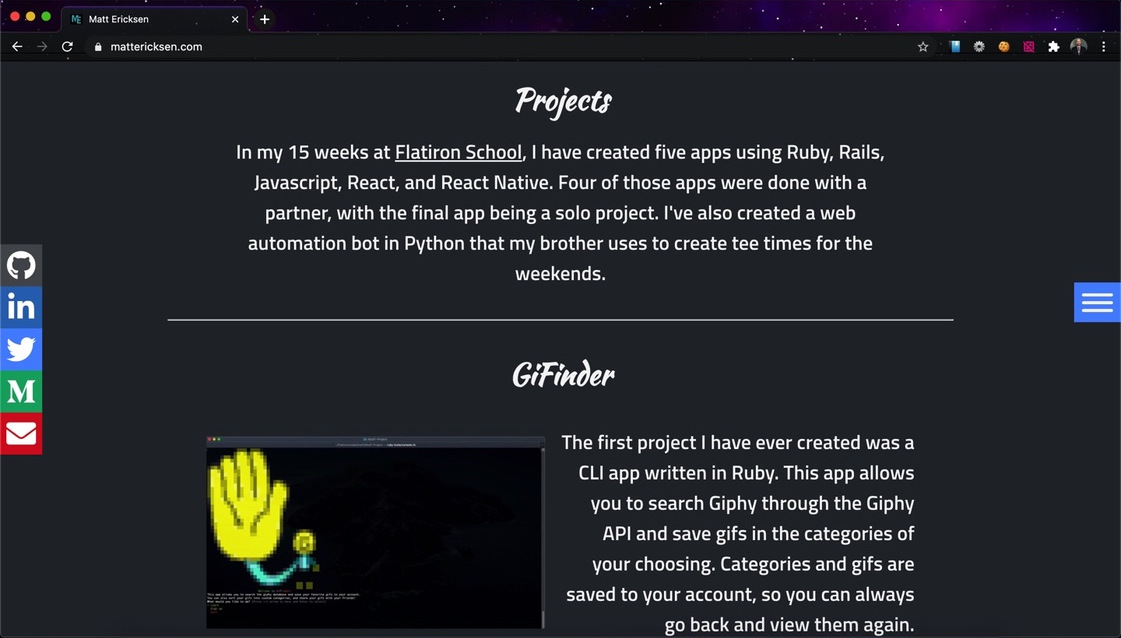
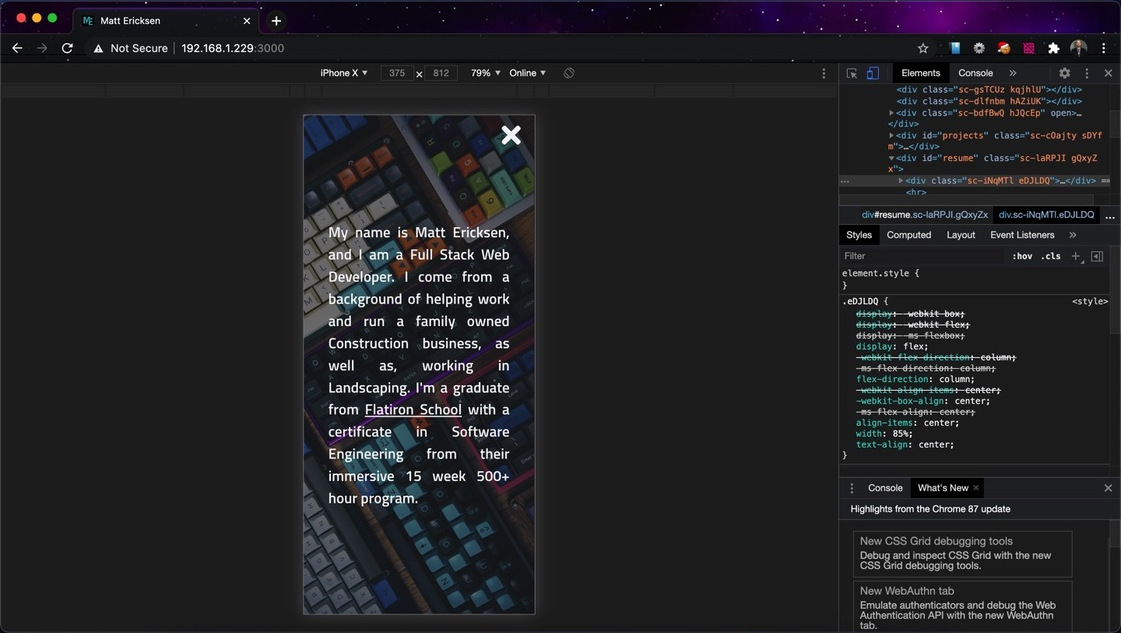
removed /about and just added an overlay slide in

diff --git a/src/App/components/IntroImage.js b/src/App/components/IntroImage.js
@@ -1,7 +1,6 @@
 import React, { useState, useEffect } from "react";
 import styled from "styled-components";
-import { FaMinus, FaChevronDown, FaChevronRight } from "react-icons/fa";
-import { useHistory } from "react-router-dom";
+import { FaMinus, FaChevronDown } from "react-icons/fa";
 import { throttle } from "lodash";
 
 import TextCanvas from "../components/TextCanvas";
@@ -10,10 +9,15 @@ import prism from "../assets/images/prism.png";
 export default function IntroImage(props) {
   const [hideContent, setHideContent] = useState(false);
   const [mobile, setMobile] = useState(window.innerWidth < 769);
-  const history = useHistory();
 
   window.addEventListener("resize", () => {
-    setMobile(window.innerWidth < 769);
+    if (window.innerWidth < 769) {
+      setMobile(true);
+      props.setStopAnimation(true);
+    } else {
+      setMobile(false);
+      props.setStopAnimation(false);
+    }
   });
 
   useEffect(() => {
@@ -26,14 +30,6 @@ export default function IntroImage(props) {
 
   function scrollToWork() {
     document.getElementById("projects").scrollIntoView();
-  }
-
-  function goToAbout() {
-    props.setStopAnimation(true);
-    setTimeout(() => {
-      window.scrollTo(0, 0);
-    }, 2000);
-    history.push("/about");
   }
 
   function checkHideContent() {
@@ -75,10 +71,6 @@ export default function IntroImage(props) {
                 />
               )}
             </Info>
-            <AboutMeButton onClick={goToAbout}>
-              About Me
-              <FaChevronRight size={35} />
-            </AboutMeButton>
             <WorkButton onClick={scrollToWork}>
               <FaChevronDown size={35} />
               My Work
@@ -168,7 +160,8 @@ const WorkButton = styled.div`
   display: flex;
   position: absolute;
   bottom: 10px;
-  left: 5px;
+  left: 50%;
+  transform: translateX(-50%);
   align-items: center;
   font-size: 2rem;
   cursor: pointer;
@@ -190,36 +183,5 @@ const WorkButton = styled.div`
   }
   @media (min-width: 769px) {
     bottom: 20px;
-    left: 50%;
-    transform: translateX(-50%);
-  }
-`;
-
-const AboutMeButton = styled.div`
-  display: flex;
-  position: absolute;
-  bottom: 10px;
-  right: 5px;
-  align-items: center;
-  font-size: 2rem;
-  cursor: pointer;
-  :hover {
-    color: #00adb5;
-    transition: 0.4s ease;
-  }
-  & svg {
-    animation: slide 0.6s infinite alternate ease;
-  }
-  @keyframes slide {
-    from {
-      transform: translateX(0px);
-    }
-    to {
-      transform: translateX(10px);
-    }
-  }
-  @media (min-width: 769px) {
-    bottom: 20px;
-    right: 20px;
   }
 `;

diff --git a/src/App/components/AboutMe.js b/src/App/components/AboutMe.js
@@ -1,0 +1,71 @@
+import React from "react";
+import styled from "styled-components";
+import { FaTimes } from "react-icons/fa";
+
+import keebs from "../assets/images/keebs.png";
+import keebs90 from "../assets/images/keebs90.png";
+
+export default function AboutMe(props) {
+  return (
+    <Container imgMobile={keebs90} imgPC={keebs} open={props.aboutMeOpen}>
+      <FaTimes size={45} onClick={() => props.setAboutMeOpen(false)} />
+      <p>
+        My name is Matt Ericksen, and I am a Full Stack Web Developer. I come
+        from a background of helping work and run a family owned Construction
+        business, as well as, working in Landscaping. I'm a graduate from{" "}
+        <a href="https://flatironschool.com/" target="_blank" rel="noreferrer">
+          Flatiron School
+        </a>{" "}
+        with a certificate in Software Engineering from their immersive 15 week
+        500+ hour program.
+      </p>
+    </Container>
+  );
+}
+
+const Container = styled.div`
+  display: flex;
+  width: 100%;
+  height: 100vh;
+  z-index: 3;
+  font-size: 1.5rem;
+  background-image: linear-gradient(rgba(0, 0, 0, 0.5), rgba(0, 0, 0, 0.5)),
+    ${(p) => `url(${p.imgMobile})`};
+  background-size: cover;
+  background-repeat: no-repeat;
+  background-position: center;
+  position: fixed;
+  top: 50%;
+  transform: translate(${(p) => (p.open ? "0, -50%" : "101%, -50%")});
+  transition: transform 1s ease;
+  align-items: center;
+  @media (min-width: 769px) {
+    height: auto;
+    width: 75%;
+    left: 50%;
+    font-size: 1.8rem;
+    transform: translate(${(p) => (p.open ? "-50%, -50%" : "76%, -50%")});
+    transition: transform 1.3s ease;
+    background-image: linear-gradient(rgba(0, 0, 0, 0.5), rgba(0, 0, 0, 0.5)),
+      ${(p) => `url(${p.imgPC})`};
+  }
+  & a {
+    color: inherit;
+  }
+  & p {
+    padding: 0 40px;
+    text-align: justify;
+    @media (min-width: 769px) {
+      padding: 0 15vw;
+    }
+  }
+  & svg {
+    position: absolute;
+    top: 10px;
+    right: 15px;
+    cursor: pointer;
+    :hover {
+      opacity: 0.6;
+    }
+  }
+`;

diff --git a/src/App/routes/AboutMe.js b/src/App/routes/AboutMe.js
@@ -1,9 +1,8 @@
 import React, { useEffect, useRef } from "react";
-import styled, { keyframes } from "styled-components";
+import styled from "styled-components";
 import { NavLink } from "react-router-dom";
 
 import prism from "../assets/images/prism.png";
-import { AB } from "../assets/JS/Me";
 
 export default function AboutMe() {
   const slideCheck = useRef();
@@ -14,25 +13,11 @@ export default function AboutMe() {
       .classList.contains("slide-enter");
   });
 
-  function aboutMeDivs() {
-    return AB.map((obj, i) => (
-      <AboutMeDiv
-        key={i}
-        even={i % 2 === 0}
-        bgImg={obj.img}
-        id={i % 2 === 0 ? "inner-even" : "inner-odd"}
-        slideCheck={slideCheck.current}
-      >
-        <p>{obj.p}</p>
-      </AboutMeDiv>
-    ));
-  }
   return (
     <Container className="about-me" prism={prism}>
       <Header>
         <NavLink to="/">Head Back</NavLink>
       </Header>
-      {aboutMeDivs()}
     </Container>
   );
 }
@@ -58,37 +43,5 @@ const Header = styled.div`
   & a {
     color: inherit;
     text-decoration: none;
-  }
-`;
-
-const AboutMeDiv = styled.div`
-  display: flex;
-  min-height: 50vh;
-  width: 100%;
-  align-items: center;
-  background-image: ${(p) => `url(${p.bgImg})`};
-  background-repeat: no-repeat;
-  background-size: cover;
-  background-position-y: center;
-  background-color: rgba(40, 44, 52, 1);
-  transform: translateX(${(p) => (p.even ? "-110%" : "110%")});
-  animation: ${(p) => enter(p.even)} 1s ease
-    ${(p) => (p.slideCheck ? "4s" : "0s")} forwards;
-  & p {
-    -webkit-text-stroke-width: 1px;
-    -webkit-text-stroke-color: black;
-    margin: 0;
-    font-size: 32px;
-    padding: 0 15vw;
-  }
-`;
-
-const enter = (p) => keyframes`
-  from {
-    transform : translateX(${p ? "-110%" : "110%"})
-  }
-  to {
-    transform : translateX(0);
-    /* box-shadow: 0 0px 20px rgba(0, 0, 0, 1); */
   }
 `;

diff --git a/src/App/components/Navigation.js b/src/App/components/Navigation.js
@@ -2,7 +2,6 @@ import React, { useEffect, useState } from "react";
 import styled from "styled-components";
 import { HamburgerCollapse } from "react-animated-burgers";
 import { throttle } from "lodash";
-import { useHistory } from "react-router-dom";
 
 const NavigationObjs = [
   {
@@ -26,7 +25,6 @@ const NavigationObjs = [
 export default function Navigation(props) {
   const [section, setSection] = useState("about");
   const [navOpen, setNavOpen] = useState(false);
-  const history = useHistory();
 
   useEffect(() => {
     const throttleNav = throttle(checkNavVisible, 300);
@@ -82,15 +80,7 @@ export default function Navigation(props) {
     setNavOpen(false);
     switch (id) {
       case "about":
-        props.setVisible(false);
-        props.setStopAnimation(true);
-        setTimeout(() => {
-          window.scrollTo(0, 0);
-        }, 2200);
-        setTimeout(() => {
-          history.push("/about");
-        }, 750);
-        // window.scrollTo(0, 0);
+        props.setAboutMeOpen(true);
         break;
       case "projects":
         document.getElementById("projects").scrollIntoView();
@@ -132,7 +122,7 @@ const Container = styled.div`
   display: flex;
   pointer-events: ${(p) => (p.visible ? "all" : "none")};
   position: fixed;
-  z-index: 3;
+  z-index: 2;
   width: 100%;
   & button {
     background: #5090fe;

diff --git a/src/App/routes/Home.js b/src/App/routes/Home.js
@@ -1,6 +1,7 @@
 import React, { useState } from "react";
 import styled from "styled-components";
 
+import AboutMe from "../components/AboutMe";
 import IntroImage from "../components/IntroImage";
 import Navigation from "../components/Navigation";
 import Projects from "../components/Projects";
@@ -10,6 +11,7 @@ import Links from "../components/Links";
 export default function Home() {
   const [visible, setVisible] = useState(false);
   const [stopAnimation, setStopAnimation] = useState(false);
+  const [aboutMeOpen, setAboutMeOpen] = useState(false);
 
   return (
     <Container className="home">
@@ -18,6 +20,7 @@ export default function Home() {
         stopAnimation={stopAnimation}
         setStopAnimation={setStopAnimation}
       />
+      <AboutMe aboutMeOpen={aboutMeOpen} setAboutMeOpen={setAboutMeOpen} />
       <Projects />
       <ResumeContact />
       <Navigation
@@ -25,6 +28,7 @@ export default function Home() {
         setVisible={setVisible}
         stopAnimation={stopAnimation}
         setStopAnimation={setStopAnimation}
+        setAboutMeOpen={setAboutMeOpen}
       />
       <Links visible={visible} setVisible={setVisible} />
     </Container>

diff --git a/src/App/assets/JS/Screenshots.js b/src/App/assets/JS/Screenshots.js
@@ -36,6 +36,9 @@ import Sellular10 from "../images/screenshots/sellular (10).jpg";
 import Portfolio1 from "../images/screenshots/portfolio (1).jpg";
 import Portfolio2 from "../images/screenshots/portfolio (2).jpg";
 import Portfolio3 from "../images/screenshots/portfolio (3).jpg";
+import Portfolio4 from "../images/screenshots/portfolio (4).jpg";
+import Portfolio5 from "../images/screenshots/portfolio (5).jpg";
+import Portfolio6 from "../images/screenshots/portfolio (6).jpg";
 
 export const GiFinderSS = [
   GiFinder1,
@@ -74,4 +77,11 @@ export const SellularSS = [
   Sellular9,
   Sellular10,
 ];
-export const PortfolioSS = [Portfolio1, Portfolio2, Portfolio3];
+export const PortfolioSS = [
+  Portfolio1,
+  Portfolio2,
+  Portfolio3,
+  Portfolio4,
+  Portfolio5,
+  Portfolio6,
+];

diff --git a/public/index.html b/public/index.html
@@ -7,7 +7,7 @@
     <meta name="theme-color" content="#000000" />
     <meta
       name="Matt Ericksen"
-      description="Portfolio for Matt Ericksen"
+      description="Personal website for Matt Ericksen"
     />
     <link rel="apple-touch-icon" href="%PUBLIC_URL%/me.ico" />
     <link rel="manifest" href="%PUBLIC_URL%/manifest.json" />
